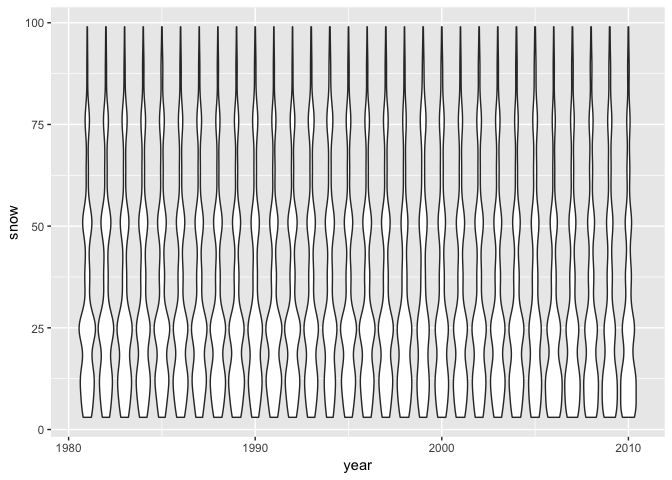
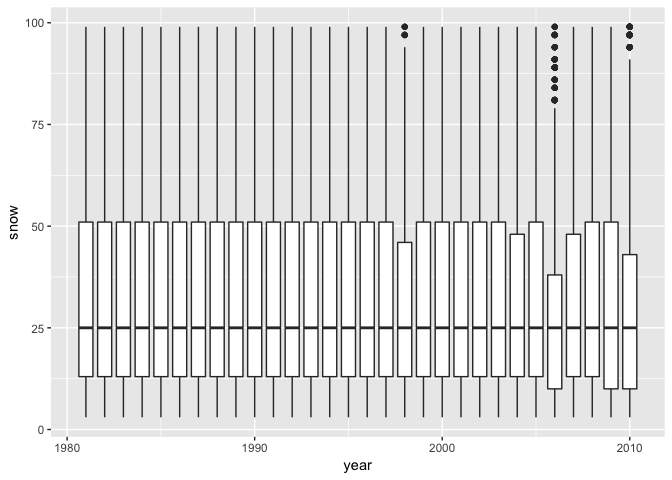
Made change based on editted questions

diff --git a/p8105_hw3_xy2395.md b/p8105_hw3_xy2395.md
@@ -3,8 +3,6 @@ p8105\_hw3\_xy2395
 Jack Yan
 10/04/2018
 
-knitr::opts\_chunk$set( fig.width = 6, fig.asp = .6, out.width = "90%" )
-
 This homework includes figures; the readability of your embedded plots (e.g. font sizes, axis labels, titles) will be assessed in Problems 1+.
 
 Problem 1
@@ -75,18 +73,20 @@ CT, FL and NC were observed at 7 locations in 2002.
 
 ### Question 2
 
-Make a “spaghetti plot” that shows the number of observations in each state from 2002 to 2010.
+Make a “spaghetti plot” that shows the number of **locations** in each state from 2002 to 2010.
 
 ``` r
 tidy_brfss %>% 
-  group_by(locationabbr, year) %>% 
+  group_by(year, locationabbr, locationdesc) %>% 
+  distinct(locationdesc) %>%  
+  group_by(year, locationabbr) %>% 
   count() %>% 
   ggplot(aes(x = year, y = n, color = locationabbr)) +
     geom_line() +
     labs(
-      title = "Number of observations in each state",
+      title = "Number of locations in each state",
       x = "Year",
-      y = "Number of observations"
+      y = "Number of locations"
     ) 
 ```
 
@@ -300,27 +300,24 @@ For snowfall, `0`s are the most commonly observed values because for most of the
 
 ### Question 2
 
-Make a two-panel plot showing the average temperature in January and in July in each station across years. Is there any observable / interpretable structure? Any outliers?
+Make a two-panel plot showing the average **max** temperature in January and in July in each station across years. Is there any observable / interpretable structure? Any outliers?
 
 ``` r
 tidy_ny_noaa %>% 
+  filter(is.na(tmax) == FALSE) %>% 
   filter(month == 7 | month == 1) %>% 
-  group_by(id, year, month) %>%
-  summarize(avg_tmax = mean(tmax, na.rm = TRUE),
-            avg_tmin = mean(tmin, na.rm = TRUE)
-            ) %>% 
+  group_by(year, month, id) %>%
+  summarize(avg_tmax = mean(tmax, na.rm = TRUE)) %>% 
   ggplot(aes(x = year, y = avg_tmax, group = year)) +
     geom_boxplot() +
     facet_grid(~month)
 ```
 
-    ## Warning: Removed 5970 rows containing non-finite values (stat_boxplot).
-
 ![](p8105_hw3_xy2395_files/figure-markdown_github/unnamed-chunk-12-1.png)
 
 ### Question 3
 
-Make a two-panel plot showing (i) tmax vs tmin for the full dataset (note that a scatterplot may NOT be the best option); and (ii) make a plot showing the distribution of snowfall values greater than 0 and less than 100 separately by year.
+Make a two-panel plot showing (i) tmax vs tmin for the full dataset (note that a scatterplot may NOT be the best option)
 
 ``` r
 tidy_ny_noaa %>% 
@@ -331,14 +328,7 @@ tidy_ny_noaa %>%
 
 ![](p8105_hw3_xy2395_files/figure-markdown_github/unnamed-chunk-13-1.png)
 
-``` r
-tidy_ny_noaa %>% 
-  filter(snow > 0, snow < 100) %>% 
-  ggplot(aes(x = year, y = snow)) +
-  geom_violin(aes(group=year)) 
-```
-
-![](p8105_hw3_xy2395_files/figure-markdown_github/unnamed-chunk-14-1.png)
+1.  make a plot showing the distribution of snowfall values greater than 0 and less than 100 separately by year.
 
 ``` r
 tidy_ny_noaa %>% 
@@ -347,4 +337,4 @@ tidy_ny_noaa %>%
   geom_boxplot(aes(group=year)) 
 ```
 
-![](p8105_hw3_xy2395_files/figure-markdown_github/unnamed-chunk-14-2.png)
+![](p8105_hw3_xy2395_files/figure-markdown_github/unnamed-chunk-14-1.png)
